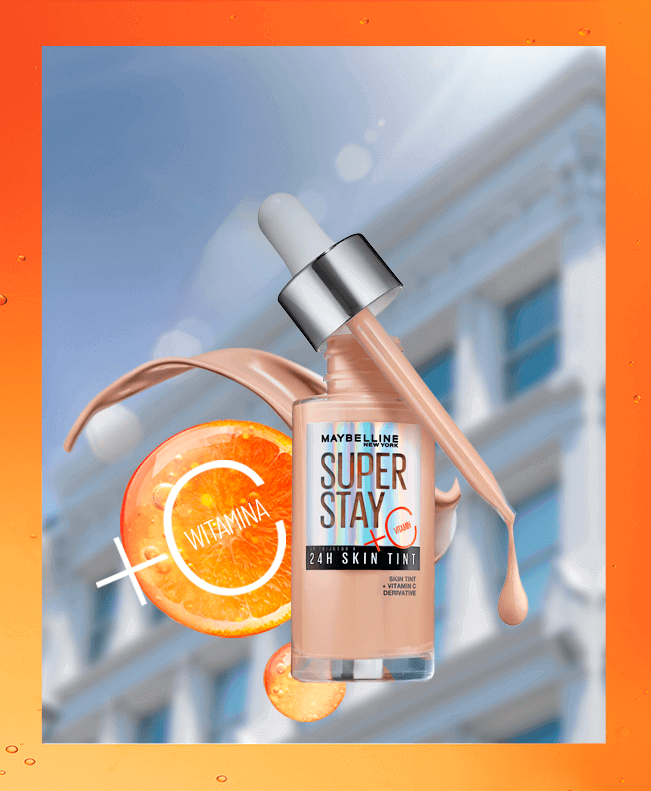
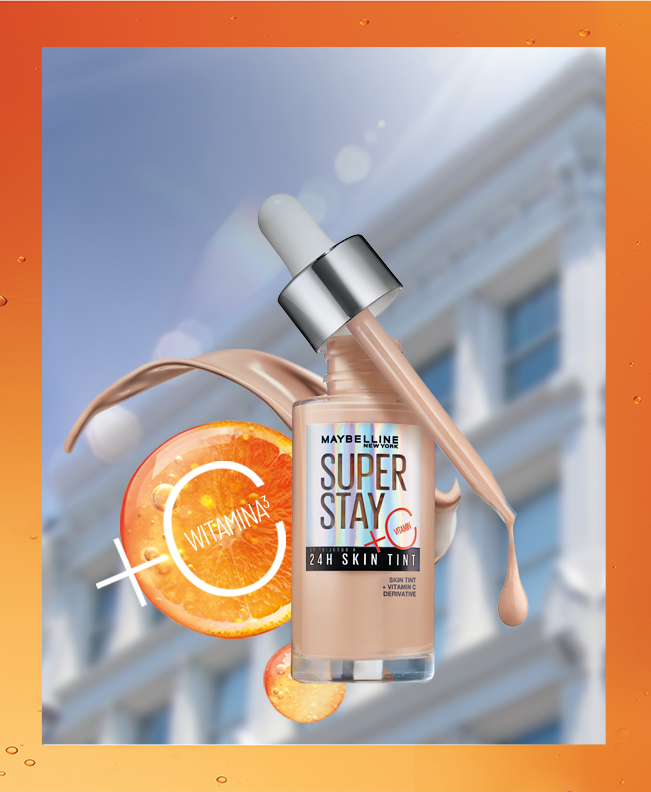
feat: change badge and kv image

diff --git a/style.css b/style.css
@@ -969,6 +969,10 @@ body {
     margin-left: 20px;
     width: 400px;
   }
+  #es-maybelline.es-maybelline .es-kv__text--two img {
+    max-width: 75px;
+    margin-right: 20px;
+  }
   #es-maybelline.es-maybelline .es-features__single {
     max-width: 330px;
   }

diff --git a/style.scss b/style.scss
@@ -931,6 +931,11 @@ body {
         margin-top: 40px;
         margin-left: 20px;
         width: 400px;
+
+        img {
+          max-width: 75px;
+          margin-right: 20px;
+        }
       }
     }
     .es-features {
